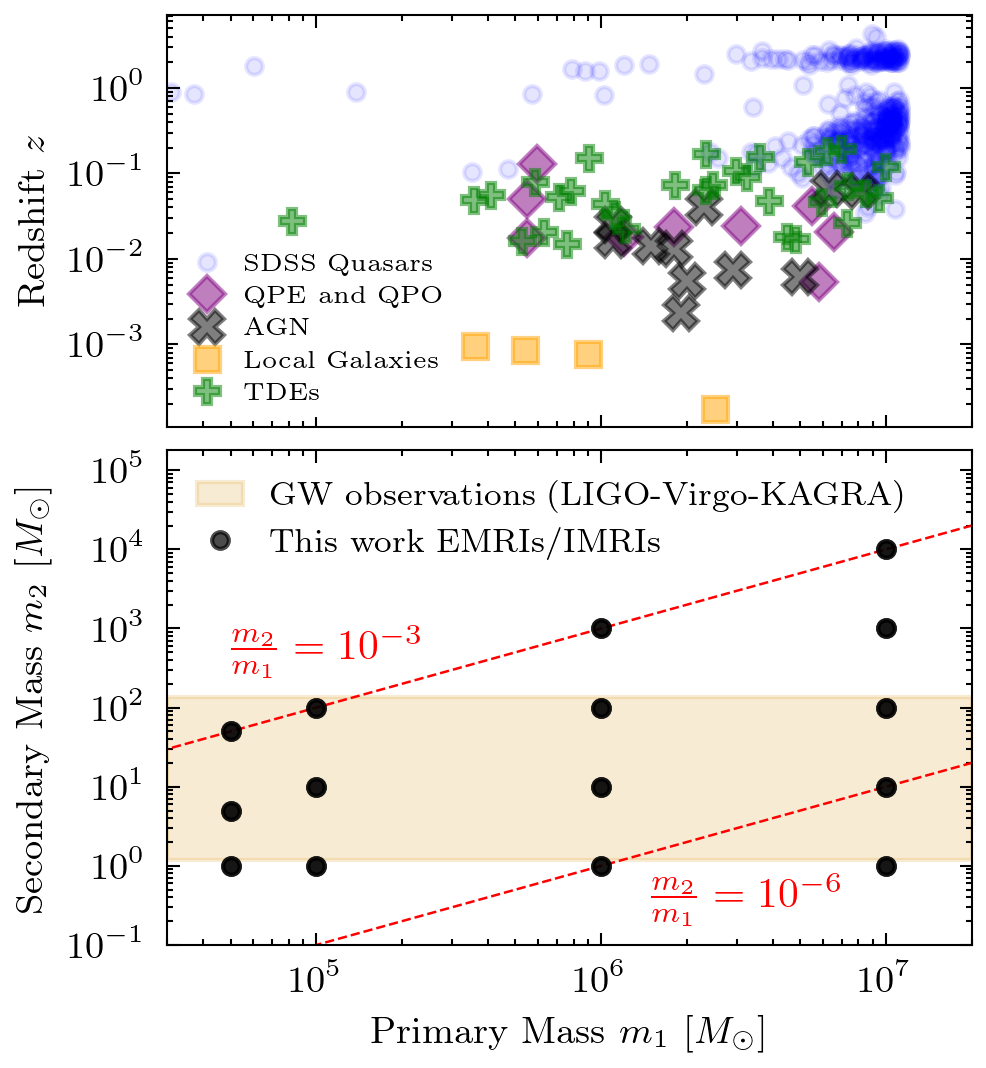
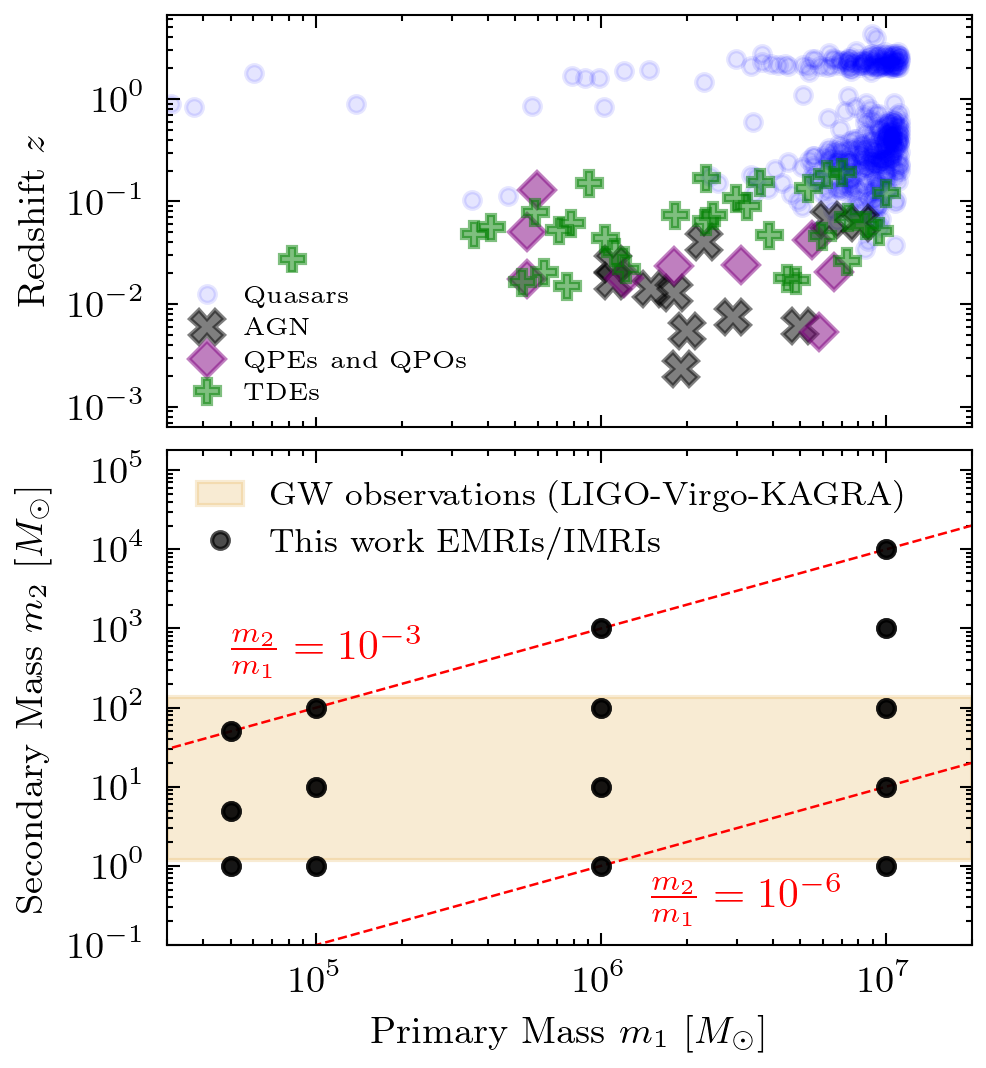
new naming

diff --git a/pipeline/figures/plot_emri_imri_masses.py b/pipeline/figures/plot_emri_imri_masses.py
@@ -98,14 +98,14 @@ fig, (ax1, ax2) = plt.subplots(2, 1, figsize=(3.25, 2*2), sharex=True,
 # =============================================================================
 # Plot EM observations
 # SDSS Quasars (background) - consistent with plot_redshift_at_snr.py
-ax1.plot(massbh_sdss, redshift_sdss, '.', color='blue', alpha=0.1, markersize=8, zorder=0, label='SDSS Quasars')
-
-# QPE and QPO data - consistent with plot_redshift_at_snr.py
-mask_qpe = masses_qpe <= 1e7
-ax1.plot(masses_qpe[mask_qpe], z_qpe[mask_qpe], 'D', color='purple', alpha=0.5, markersize=6, label='QPE and QPO')
+ax1.plot(massbh_sdss, redshift_sdss, '.', color='blue', alpha=0.1, markersize=8, zorder=0, label='Quasars')
 
 # AGN/SMBH data - consistent with plot_redshift_at_snr.py
 ax1.plot(list_mass, list_redshift, 'X', color='k', alpha=0.5, markersize=8, label='AGN')
+
+# QPE and QPO data - consistent with plot_redshift_at_snr.py
+mask_qpe = masses_qpe <= 1e7
+ax1.plot(masses_qpe[mask_qpe], z_qpe[mask_qpe], 'D', color='purple', alpha=0.5, markersize=6, label='QPEs and QPOs')
 
 # Local galaxies from 2020ARA&A
 # ax1.semilogy(local_galaxy_masses, local_galaxy_z, 's', color='orange', alpha=0.5, markersize=6, label='Local Galaxies')

diff --git a/pipeline/figures/plot_redshift_at_snr.py b/pipeline/figures/plot_redshift_at_snr.py
@@ -210,9 +210,9 @@ mask_tde = (tde_mbh <= 1e7)
 ax1.semilogy(tde_mbh[mask_tde], tde_z[mask_tde], 'P', color='green', alpha=0.5, markersize=6, label='TDEs')
 
 legend_elements += [
-    Line2D([0], [0], marker='D', label='QPE and QPO', alpha=0.5, markerfacecolor='purple', markersize=6, linestyle='None', color='purple'),
+    Line2D([0], [0], marker='.', label='Quasars', alpha=0.1, markerfacecolor='blue', markersize=8, linestyle='None', color='blue'),
     Line2D([0], [0], marker='X', label='AGN', alpha=0.5, markerfacecolor='k', markersize=8, linestyle='None', color='k'),
-    Line2D([0], [0], marker='.', label='SDSS Quasars', alpha=0.1, markerfacecolor='blue', markersize=8, linestyle='None', color='blue'),
+    Line2D([0], [0], marker='D', label='QPEs and QPOs', alpha=0.5, markerfacecolor='purple', markersize=6, linestyle='None', color='purple'),
     Line2D([0], [0], marker='P', label='TDEs', alpha=0.5, markerfacecolor='green', markersize=6, linestyle='None', color='green'),
 ]
 leg2 = ax1.legend(handles=legend_elements, frameon=True, loc='lower left', title=r'EM Observations', framealpha=0.0)

diff --git a/pipeline/figures/plot_redshift_horizon_polar.py b/pipeline/figures/plot_redshift_horizon_polar.py
@@ -230,9 +230,9 @@ for obs_type, (masses, zs, color, marker, ms, alpha) in obs_data.items():
 
 # Legend for observations
 legend_elements_obs = [
-    Line2D([0], [0], marker='D', label='QPE and QPO', alpha=0.5, markerfacecolor='purple', markersize=6, linestyle='None', color='purple'),
+    Line2D([0], [0], marker='.', label='Quasars', alpha=0.1, markerfacecolor='blue', markersize=8, linestyle='None', color='blue'),
     Line2D([0], [0], marker='X', label='AGN', alpha=0.5, markerfacecolor='k', markersize=8, linestyle='None', color='k'),
-    Line2D([0], [0], marker='.', label='SDSS Quasars', alpha=0.1, markerfacecolor='blue', markersize=8, linestyle='None', color='blue'),
+    Line2D([0], [0], marker='D', label='QPEs and QPOs', alpha=0.5, markerfacecolor='purple', markersize=6, linestyle='None', color='purple'),
     Line2D([0], [0], marker='P', label='TDEs', alpha=0.5, markerfacecolor='green', markersize=6, linestyle='None', color='green'),
 ]
 leg_obs = ax.legend(handles=legend_elements_obs, frameon=True, bbox_to_anchor=(0.5, -0.1), loc='center', ncol=2, fontsize=8)
